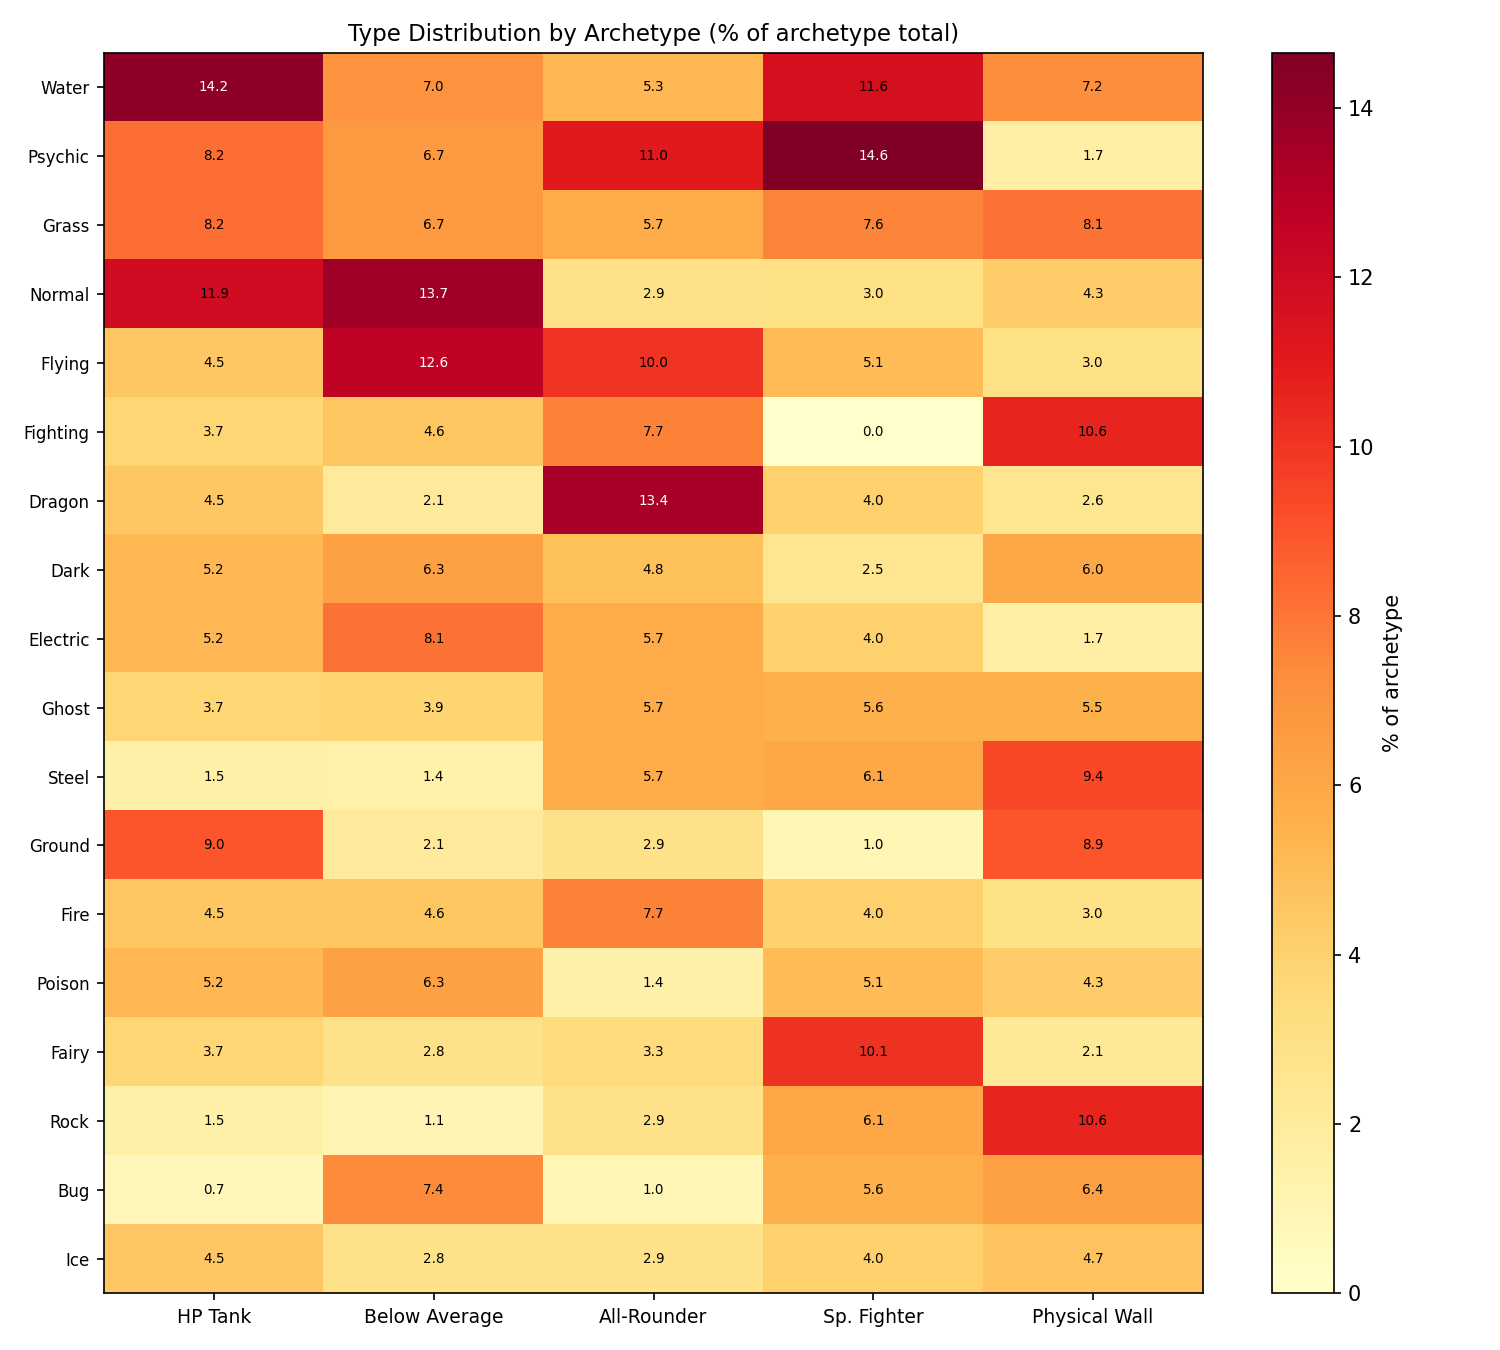
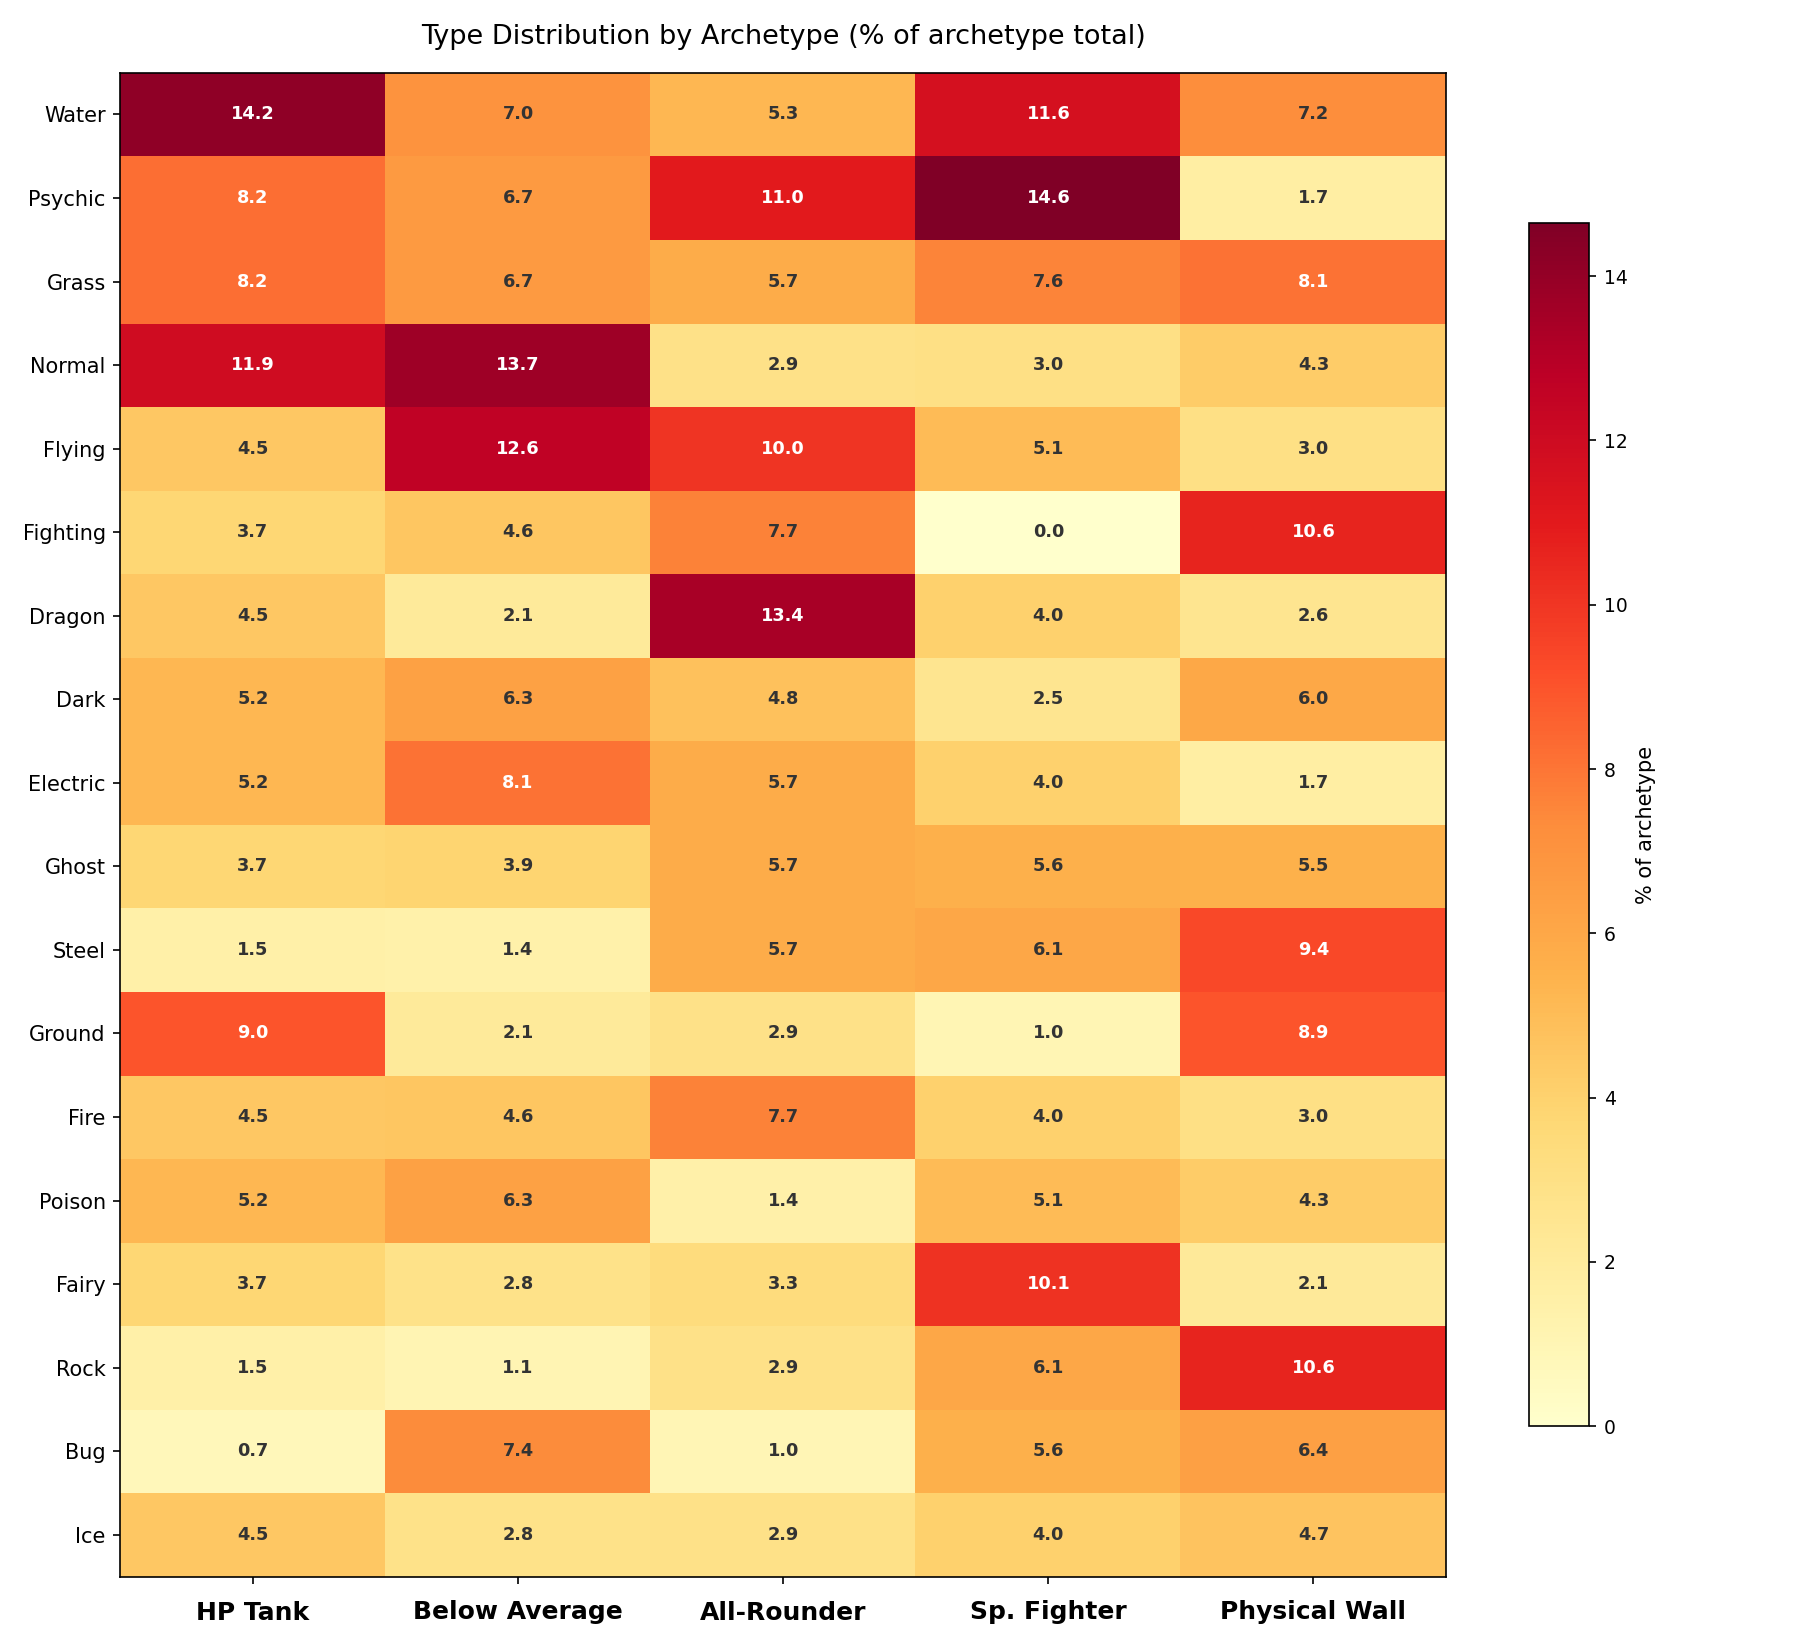
Improve type heatmap font readability

diff --git a/pokemon_ml.py b/pokemon_ml.py
@@ -469,19 +469,25 @@ archetype_order = [CLUSTER_NAMES[i] for i in range(K)]
 type_pct = type_pct.reindex(columns=archetype_order)
 type_pct = type_pct.loc[type_pct.sum(axis=1).sort_values(ascending=False).index]
 
-fig, ax = plt.subplots(figsize=(10, 9))
+fig, ax = plt.subplots(figsize=(12, 11))
 im = ax.imshow(type_pct.values, aspect="auto", cmap="YlOrRd")
 ax.set_xticks(range(K))
-ax.set_xticklabels(archetype_order, fontsize=9)
+ax.set_xticklabels(archetype_order, fontsize=12, fontweight="bold")
 ax.set_yticks(range(len(type_pct)))
-ax.set_yticklabels(type_pct.index, fontsize=8)
-plt.colorbar(im, ax=ax, label="% of archetype")
-ax.set_title("Type Distribution by Archetype (% of archetype total)", fontsize=11)
+ax.set_yticklabels(type_pct.index, fontsize=10)
+ax.tick_params(axis="x", pad=8)
+cbar = plt.colorbar(im, ax=ax, label="% of archetype", shrink=0.8)
+cbar.ax.tick_params(labelsize=9)
+cbar.set_label("% of archetype", fontsize=10)
+ax.set_title("Type Distribution by Archetype (% of archetype total)",
+             fontsize=13, pad=14)
+vmax = type_pct.values.max()
 for i in range(len(type_pct)):
-    for j in range(N := len(archetype_order)):
+    for j in range(len(archetype_order)):
         val = type_pct.values[i, j]
         ax.text(j, i, f"{val:.1f}", ha="center", va="center",
-                fontsize=6.5, color="black" if val < 12 else "white")
+                fontsize=8.5, fontweight="bold",
+                color="white" if val > vmax * 0.55 else "#333333")
 plt.tight_layout()
 plt.savefig("type_heatmap.png", dpi=150)
 plt.show()
